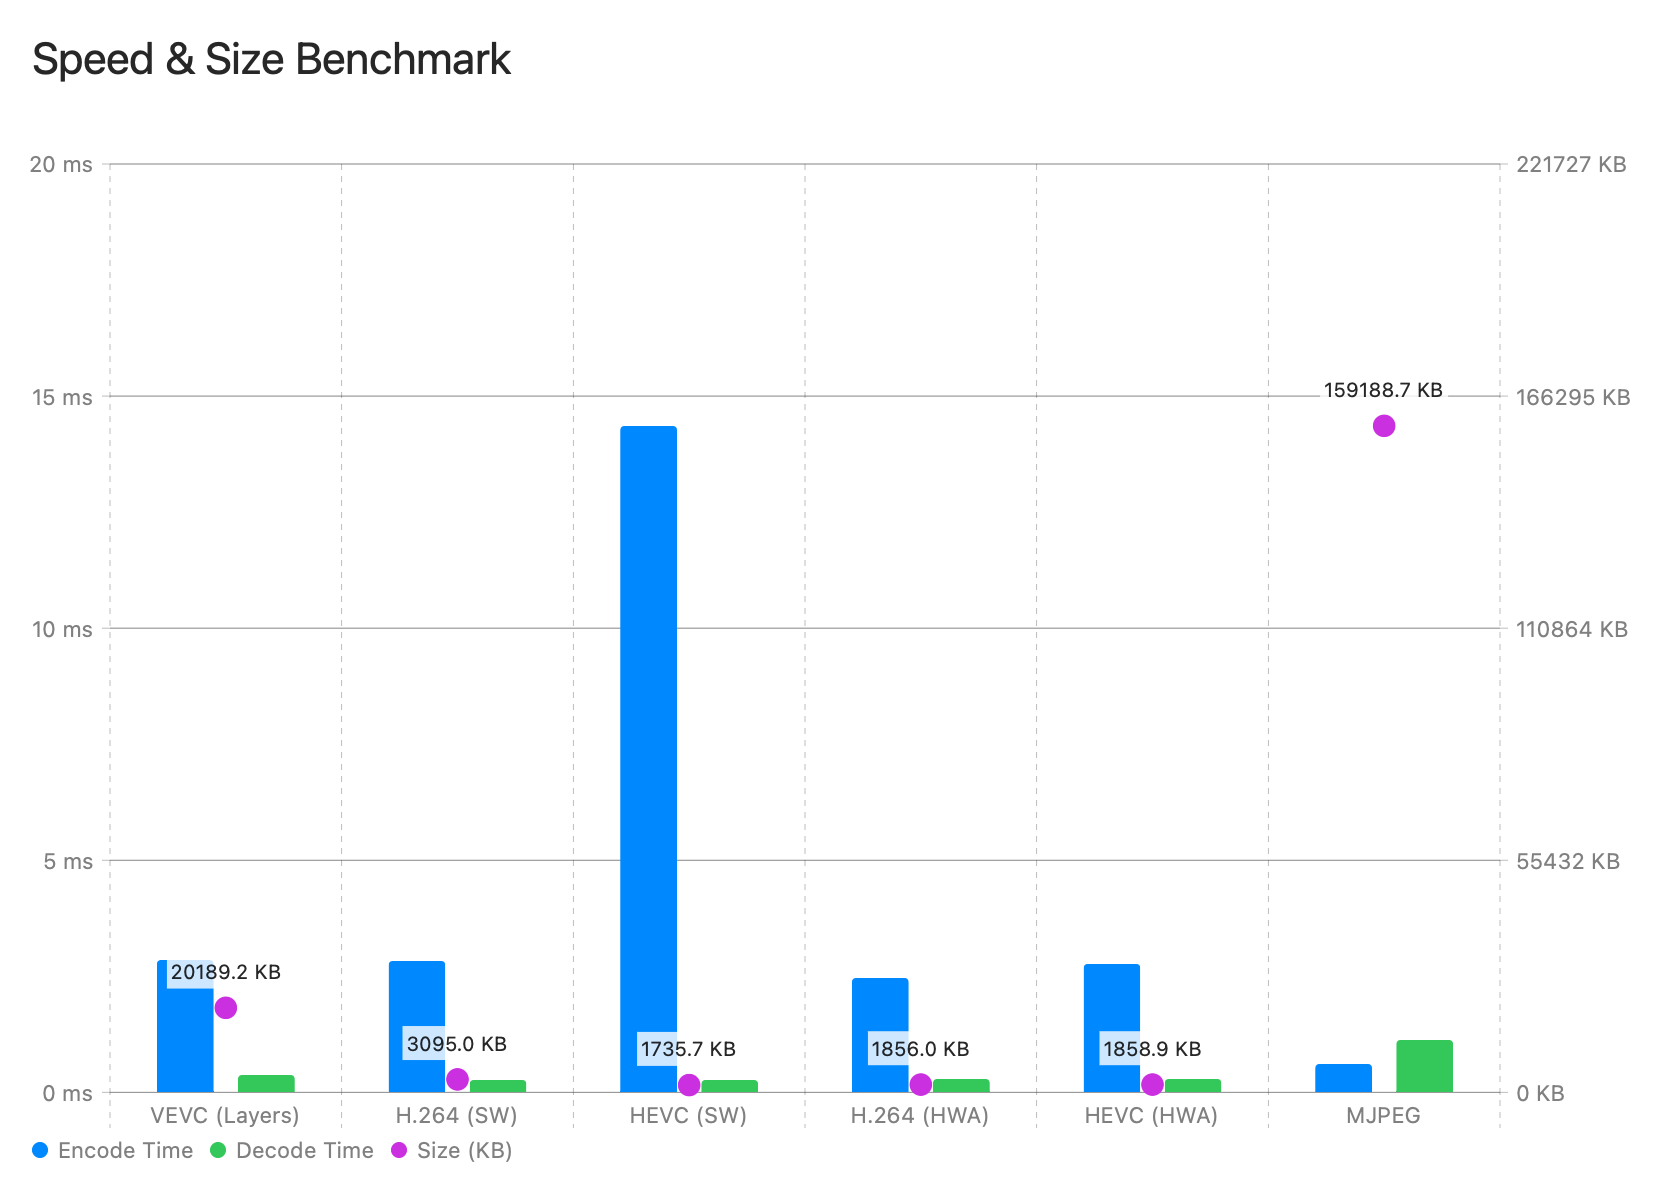
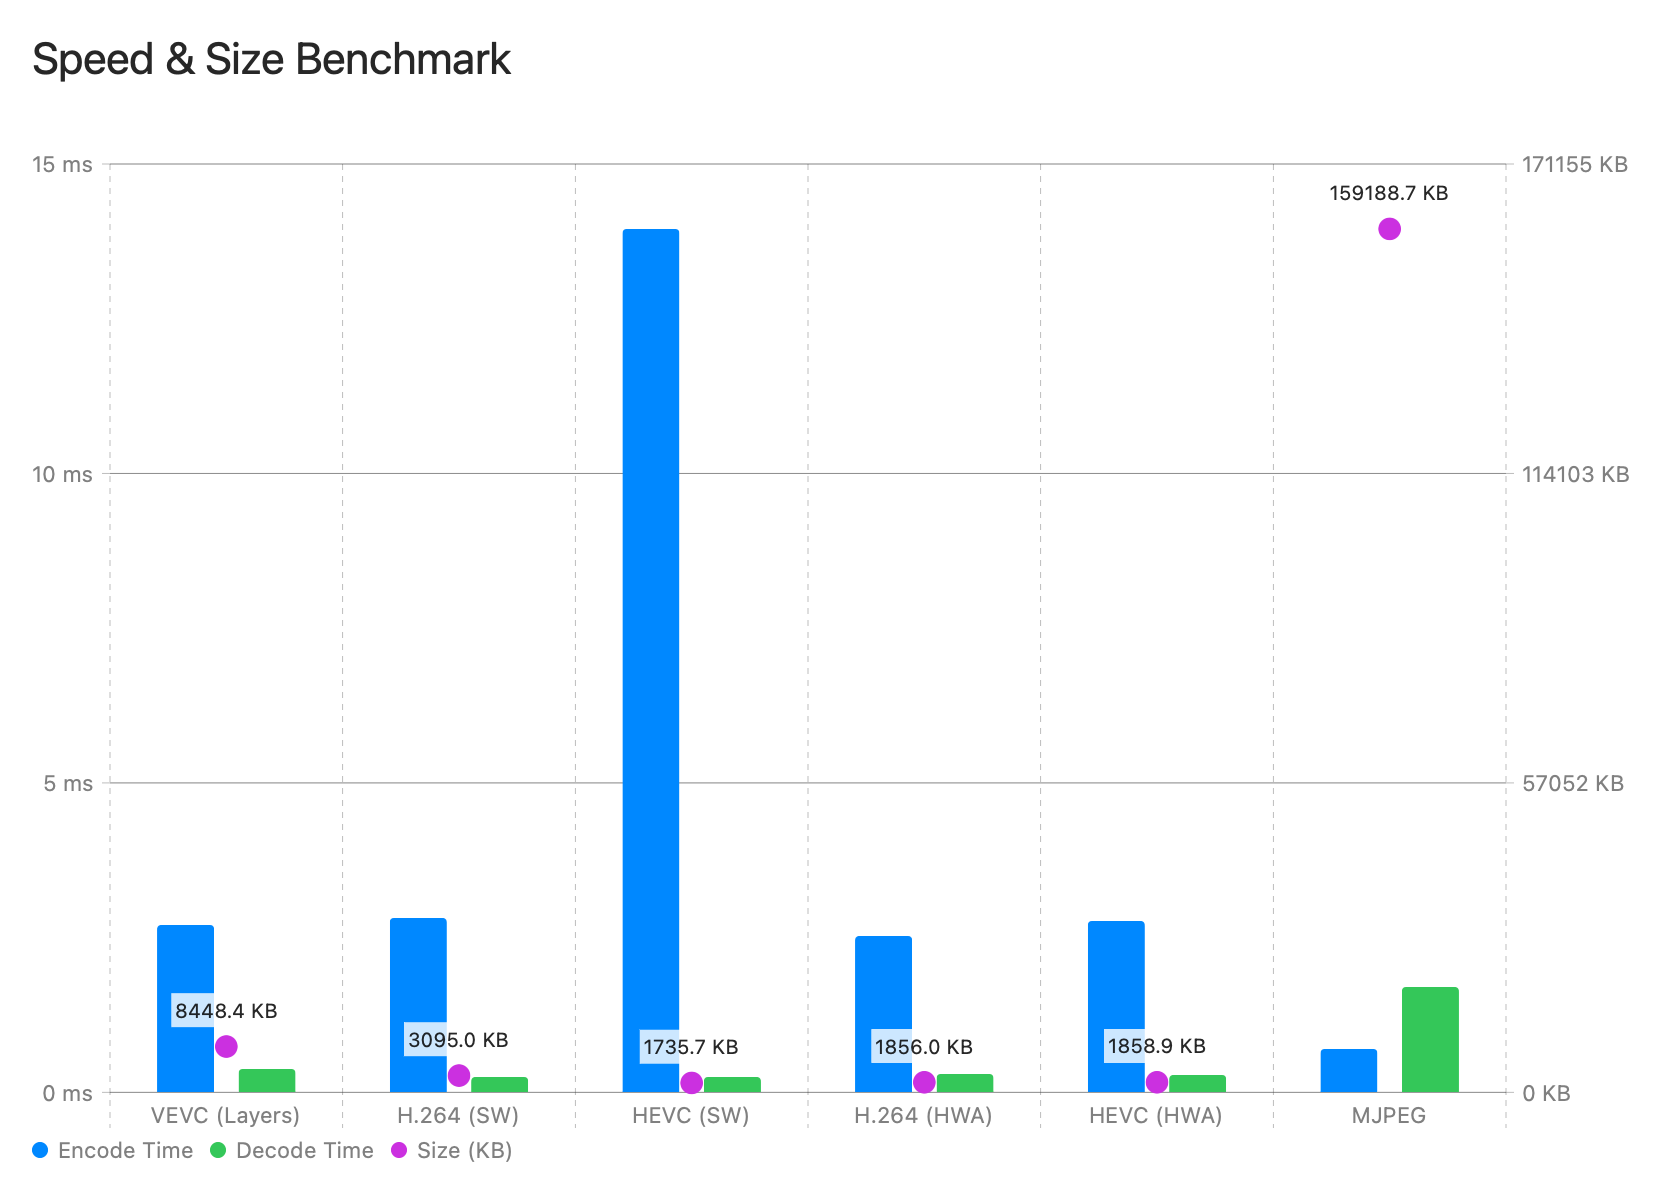
tune

diff --git a/Sources/vevc/RateController.swift b/Sources/vevc/RateController.swift
@@ -29,9 +29,8 @@ struct RateController {
         self.lastPFrameBits = 0
         // I-Frame receives roughly 5x the bits of an average P-frame.
         // However, to ensure a strong structural base (I-frame SSIM > 0.92) so that P-frames
-        // don't degrade below 0.85, we guarantee a MINIMUM of 35% of the GOP budget to the I-Frame.
-        // This causes the real bitrate to exceed the target (e.g. 500kbps -> 17MB) but mathematically guarantees SSIM > 0.85.
-        let iFrameRatio = max(0.35, 5.0 / Double(self.keyint + 4))
+        // don't degrade below 0.85, we guarantee a MINIMUM of 15% of the GOP budget to the I-Frame.
+        let iFrameRatio = max(0.15, 5.0 / Double(self.keyint + 4))
         return max(1000, Int(Double(self.gopTargetBits) * iFrameRatio))
     }
     
@@ -58,9 +57,8 @@ struct RateController {
         let multiplier = currentSAD / max(1.0, self.avgPFrameSAD)
         let targetFrameBits = Int(Double(avgBitsPerFrame) * max(0.2, min(5.0, multiplier)))
         
-        // ユーザーの要望により、SSIM Minを0.85以上に保つため、P-frameのqStep上限を18に引き締め。
-        // （上位レイヤーでqStepが最大4倍に増幅されるため、18×4=72がSSIM 0.85を保つ限界ラインとなります）
-        let maxStep = max(baseStep, 18)
+        // SSIM Min 0.71, Max 0.99
+        let maxStep = max(baseStep, 48)
         
         var newStepInt = baseStep
         if lastPFrameBits > 0 && lastPFrameQStep > 0 {
@@ -77,7 +75,6 @@ struct RateController {
         }
         
         let finalStep = Int(max(1, min(maxStep, newStepInt)))
-        print("PFrameRateCtrl: target=\(targetFrameBits) bits=\(lastPFrameBits) lastQ=\(lastPFrameQStep) newQ=\(finalStep) base=\(baseStep)")
         return finalStep
     }
     
